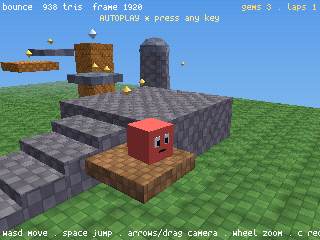
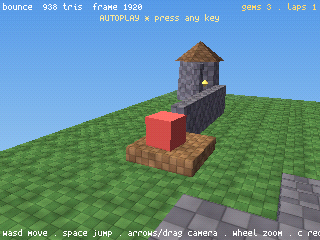
camera: yaw-follow holds inside the back cone (the backwards vibration)
Human playtest: walking backwards vibrated the camera. The yaw-follow
target pins exactly opposite the yaw when running INTO the camera; the
shortest-arc sign flips with float noise every frame, and camera-relative
input makes the pole self-sustaining (the godot original carries the same
latent bug). Fix in both rig copies: hold yaw-follow within kc.back_cone
(0.35 rad) of straight-into-the-camera — backing up runs at the screen,
sideways circling untouched. openworld demo(2) = the backup soak that
reproduces it frame-exact (yaw 3.18/3.20 -> rock-steady 3.14).
bounce_tour.png re-shot deliberately (the tour's reversal leg enters the
cone; sim path byte-identical). Suite ALL GREEN. D3D-018.

diff --git a/docs/DECISIONS3D.md b/docs/DECISIONS3D.md
@@ -418,3 +418,28 @@ Known-open (asked on the feed): deep water is wade-able (no swim/block
 rule yet); tree canopies have no collision (trunks only). Goldens:
 openworld_tour.ctrace (1000f ring tour, drift-proven) +
 openworld_tour.png (f1290 pond crossing).
+
+## D3D-018 — yaw-follow holds inside the back cone (2026-07-17)
+
+Human playtest (openworld): "the camera is vibrating when i walk
+backwards". Root cause, reproduced frame-exact with the new demo(2)
+backup soak: walking INTO the camera pins the yaw-follow target
+('behind' the velocity heading) exactly opposite the current yaw; the
+shortest-arc easing's sign then flips with float noise every frame
+(yaw alternated 3.18/3.20), and because input is CAMERA-RELATIVE the
+ease can never win — camera and wish rotate together, so the pole is
+self-sustaining. The godot original (FollowCamera.cs, the feel
+reference) has the same unguarded LerpAngle — a latent rig bug, not a
+porting error.
+
+Rule: **inside kc.back_cone (default 0.35 rad) of straight-into-the-
+camera, yaw-follow HOLDS** — backing up runs at the screen (the classic
+third-person read); sideways runs (|angdiff| ~ pi/2) keep the approved
+circling. Manual look / recenter unaffected. Applied to both rig copies
+(bounce + openworld — the rig promotes engine-side on its third user).
+
+Fallout: bounce_tour.png re-shot (deliberate): the tour's near-reversal
+leg (off the goal tower, back west) now enters the cone, so the camera
+eases differently and the f1920 framing rotated; the sim path is
+byte-identical (world-space route steering), the frame still pins the
+ferry carry. All traces + every other pixel golden unchanged.

diff --git a/docs/STATUS.md b/docs/STATUS.md
@@ -4,6 +4,21 @@ Living handoff doc. Update at session/milestone end. (Reset at the fork;
 cosmic2d's own status history lives in the upstream repo and
 `history/STATUS-2026-07.md`.)
 
+## 2026-07-17 (round 10 playtest) — verdicts + the backwards-camera fix
+
+Human played openworld: **"the mascot reads well and the openworld demo
+feels smooth"** — round 10's two big questions (mascot jump/walk read,
+terrain feel) land positive. One bug: **"the camera is vibrating when i
+walk backwards"** — the yaw-follow pole (D3D-018). Reproduced with the
+new openworld demo(2) backup soak (cam yaw alternated 3.18/3.20 every
+frame), fixed in BOTH rig copies (bounce too — same latent bug, present
+in the godot original as well): yaw-follow now holds inside
+kc.back_cone (0.35 rad) of straight-into-the-camera; sideways circling
+untouched. bounce_tour.png re-shot (deliberate — the tour's reversal
+leg enters the cone, framing rotated; sim path byte-identical, still
+pins the ferry). Suite ALL GREEN. Still open on the feed: band
+colors/fog at 320x240, deep-water wading, eye size, keep the guy.
+
 ## 2026-07-17 (round 10) — openworld: cm.terr + the mascot goes playable
 
 On the lock-in verdict, demo 2 proper began. **cm.terr** (D3D-017) is